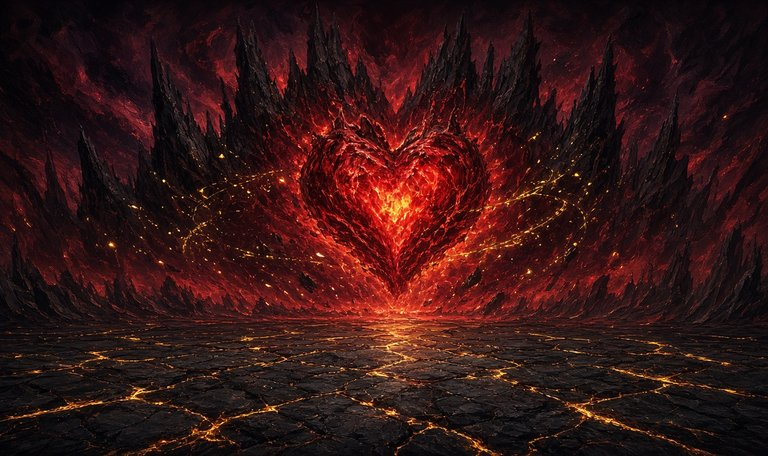
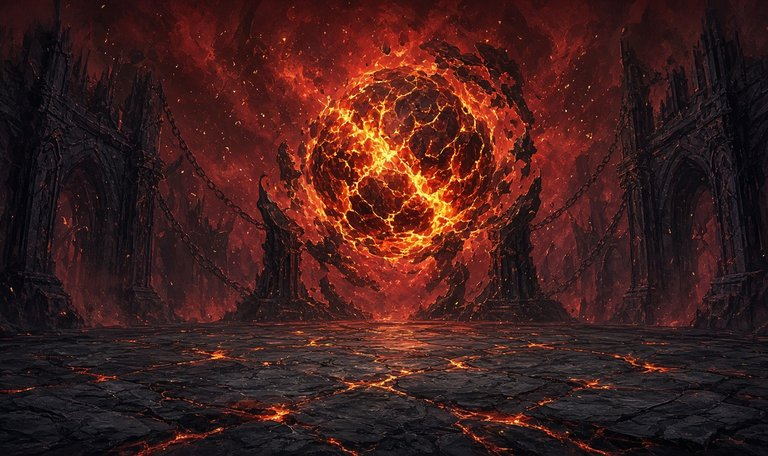
World polish: repaint 'heart' backdrop as an abstract molten ember-core chamber in the Hollow Citadel; soft painted ground transitions (grass/path, grass/water, sand/water, snow, moss, dusk, ash, reach) via noisy alpha edge overlays, collision unchanged; lighter dark-dungeon vignette with warm ember

diff --git a/world.js b/world.js
@@ -32,3 +32,23 @@ const _drawIsle=drawIsle;const ISLE_GEN=['plain','trees','rock','tree','light'];
 drawIsle=function(x,y,rx,ry,kind){const k=kind?(WART.isle[kind]?kind:null):ISLE_GEN[Math.abs((rx*31)|0)%5];const im=k&&WART.isle[k];
  if(!im)return _drawIsle(x,y,rx,ry,kind);const w=rx*2.5,h=w*im.height/im.width;X.save();X.imageSmoothingEnabled=true;X.drawImage(im,x-w/2,y-h*0.42,w,h);X.restore();
  if(kind==='ruin'&&typeof blob==='function')blob(x,y-ry*1.6,3+Math.sin(T*4),'#ffb040',0.7);};
+// ---------- soft ground transitions ----------
+// Where two different ground types meet, the higher-priority ground (grass over path, sand/grass over water, snow over
+// trodden snow, ...) bleeds ~5px into its neighbour through a painterly noisy alpha mask. Purely visual: tile chars,
+// SOLID and doors are untouched. Prop tiles on a grass base (trees, fences, flowers, huts) count as grass when bleeding.
+const EDGE_P={'.':6,'<':5,'s':6,'h':6,'d':6,'a':6,'M':6,',':4,'j':4,'w':4,'N':4,'S':4,'~':2,'K':2,'l':2,'k':2,'L':2};
+const EDGE_BASE={T:'.',f:'.',F:'.',V:'.',H:'.',m:'.',P:'s',I:'s',t:'h',i:'h',r:'a',g:'a',A:'d',G:'d',Q:'M'};
+const EDGE_MASK=[0,1,2,3].map(d=>{const c=document.createElement('canvas');c.width=c.height=48;const g=c.getContext('2d');let s=d*977+13;const R=()=>(s=(s*16807)%2147483647)/2147483647;
+ for(let i=0;i<48;i++){const depth=10+R()*8+Math.sin(i*0.35+d)*3;const gr=[g.createLinearGradient(0,0,0,depth),0];const gg=gr[0];gg.addColorStop(0,'rgba(0,0,0,1)');gg.addColorStop(0.45,'rgba(0,0,0,0.75)');gg.addColorStop(1,'rgba(0,0,0,0)');g.fillStyle=gg;g.fillRect(i,0,1,depth);}
+ const o=document.createElement('canvas');o.width=o.height=48;const q=o.getContext('2d');q.translate(24,24);q.rotate(d*Math.PI/2);q.drawImage(c,-24,-24);return o;}); // 0=N 1=E 2=S 3=W
+const EDGE_C=new Map();
+function edgeCell(a,v,f,d){const k=a+v+'|'+f+d;let c=EDGE_C.get(k);if(c)return c;const p=PTILE.get(a);c=document.createElement('canvas');c.width=c.height=48;const g=c.getContext('2d');
+ g.drawImage(WART.atlas,v*48,(p.row+f)*48,48,48,0,0,48,48);g.globalCompositeOperation='destination-in';g.drawImage(EDGE_MASK[d],0,0);EDGE_C.set(k,c);return c;}
+const _drawPT=drawPT;const EDIRS=[[0,-1],[1,0],[0,1],[-1,0]];
+drawPT=function(t,x,y,dx,dy){if(!_drawPT(t,x,y,dx,dy))return false;const pb=EDGE_P[t];if(pb===undefined||typeof MAPS==='undefined'||!MAPS[G.map])return true;const M=MAPS[G.map];
+ const v=(y%3)*3+(x%3);for(let d=0;d<4;d++){const nx=x+EDIRS[d][0],ny=y+EDIRS[d][1];if(nx<0||ny<0||nx>=M.w||ny>=M.h)continue;let a=M.rows[ny][nx];a=EDGE_BASE[a]||a;
+  const pa=EDGE_P[a];if(pa===undefined||pa<=pb||a===t||!PTILE.has(a))continue;const f=PTILE.get(a).frames>1?Math.floor(T*2)%PTILE.get(a).frames:0;X.drawImage(edgeCell(a,v,f,d),dx,dy,16,16);}return true;};
+// ---------- readable darkness ----------
+// Dark dungeons keep a vignette + cool tint, but lighter (phone screens) and with a warm ember glow around the party.
+function DARKFX(px,py){let g=X.createRadialGradient(px,py,40,px,py,190);g.addColorStop(0,'rgba(6,4,18,0)');g.addColorStop(0.6,'rgba(6,4,18,0.28)');g.addColorStop(1,'rgba(6,4,18,0.58)');X.fillStyle=g;X.fillRect(0,0,W,H);
+ X.save();X.globalCompositeOperation='lighter';g=X.createRadialGradient(px,py,0,px,py,56);const fl=0.08+0.02*Math.sin(T*7);g.addColorStop(0,`rgba(255,150,60,${fl})`);g.addColorStop(1,'rgba(255,150,60,0)');X.fillStyle=g;X.fillRect(px-60,py-60,120,120);X.restore();}

diff --git a/world_test.js b/world_test.js
@@ -35,6 +35,14 @@ for(const cv of ['field','cave','forge','glacier','sunken','twilight','throne','
 ok(await ev(()=>DBG.scene==='battle'&&BDRAW(DBG.B.cave)===true),'battle draws the painted backdrop');
 await pair('skymap',()=>{DBG.newGame();G.sky=newSky();G.sky.x=22*16;G.sky.y=24*16;DBG.UI.length=0;DBG.setScene('skymap');});
 ok(await ev(()=>SKYSEA(0,0,0)===true),'sky map draws the painted cloud sea');
+n=244;
+// follow-up: soft ground edges, readable dark dungeons, repainted heart backdrop
+ok(await ev(()=>{DBG.setStage('town');EDGE_C.clear();drawField();return EDGE_C.size>0&&typeof DARKFX==='function';}),'soft blended edges drawn between different ground types');
+ok(await ev(()=>{DBG.setStage('town');const r=MAPS.town.rows;let g=null;for(let y=0;y<r.length&&!g;y++)for(let x=0;x<r[y].length;x++)if(r[y][x]===','&&!npcAt(x,y)){g=[x,y];break;}return blocked(0,0)===true&&g&&!blocked(g[0],g[1]);}),'edges are visual only: collision unchanged');
+for(const[nm,m,x,y]of [['town','town',10,9],['world','world',6,4],['saltmere','ex_saltmere',10,8],['cave','cave',11,12],['citadel','citadel',12,8],['heartspire','heartspire',12,10],['obs','ex_obs',12,7]]){await ev(eval(map(m,x,y)));await w(350);await p.screenshot({path:`shots/${n++}_v2_${nm}.png`});}
+await ev(()=>{DBG.newGame();DBG.startBattle(['slime'],'heart',0);DBG.B.intro=0;DBG.B.swirl=0;});await w(400);await p.screenshot({path:`shots/${n++}_v2_battle_heart.png`});
+ok(await ev(()=>{DBG.setStage('town');DBG.UI.length=0;const t={s:"Kael's breath frosts — just his.",t:2};drawToastBar(t);const c1=t.c;G.x+=1;drawToastBar(t);return c1===t.c&&c1.width===W*SC;}),'walking toast is cached at device resolution and blitted in screen space (no shimmer)');
+await ev(()=>{DBG.setStage('town');DBG.UI.length=0;TOAST={s:"Kael's breath frosts — just his.",t:2.4};});await w(300);await p.screenshot({path:`shots/${n++}_v2_toast_phone.png`});
 // performance: 300 field frames with the painted atlas
 const ms=await ev(()=>{DBG.setStage('town');const t0=performance.now();for(let i=0;i<300;i++)drawField();return (performance.now()-t0)/300;});
 ok(ms<8,'painted field frame cost '+ms.toFixed(2)+'ms (<8ms)');

diff --git a/story.js b/story.js
@@ -91,8 +91,13 @@ const _fspr=fspr;fspr=function(c,x,y){_fspr(c,x,y);if(scene!=='map'||!G||!early(
  const ph=(T%nextFl);if(ph<0.6){const a=Math.sin(ph/0.6*Math.PI);X.globalAlpha=a*0.8;X.fillStyle=ph<0.3?'#ffb040':'#a0e0ff';X.beginPath();X.arc(x+6,y+4,3+a*2,0,7);X.fill();
   for(let i=0;i<4;i++){X.fillRect(x+4+Math.sin(T*9+i)*5,y+6-i*3-ph*10,1,1);}X.globalAlpha=1;
   if(!TOAST||TOAST.t<=0){TOAST={s:CHILLS[Math.floor(T/nextFl)%CHILLS.length],t:2.4};}}};
-const _dfS=drawField;drawField=function(){_dfS();if(TOAST&&TOAST.t>0&&!UI.length){TOAST.t-=1/60;X.globalAlpha=Math.min(1,TOAST.t);X.fillStyle='#000a';X.fillRect(0,H-26,W,12);txt(TOAST.s,W/2,H-24,'#bfe6ff',6,'center');X.globalAlpha=1;}
+const _dfS=drawField;drawField=function(){_dfS();if(TOAST&&TOAST.t>0&&!UI.length){TOAST.t-=1/60;X.globalAlpha=Math.min(1,TOAST.t);drawToastBar(TOAST);X.globalAlpha=1;}
  if(G&&G.flags.clear&&G.map==='town')drawEndingTown();};
+// walking-flavour toast: rendered once into a device-resolution canvas, then blitted in screen space at whole device
+// pixels with the transform reset, so it can't shimmer while the camera pans (no sub-pixel text / shadow offsets).
+function drawToastBar(t){if(!t.c||t.cs!==t.s){const c=document.createElement('canvas');c.width=W*SC;c.height=12*SC;const g=c.getContext('2d');g.fillStyle='#000a';g.fillRect(0,0,c.width,c.height);
+  g.font=`bold ${6*SC}px "Courier New",monospace`;g.textAlign='center';g.textBaseline='top';const x=Math.round(c.width/2);g.fillStyle='#000';g.fillText(t.s,x+2,2*SC+2);g.fillStyle='#bfe6ff';g.fillText(t.s,x,2*SC);t.c=c;t.cs=t.s;}
+ X.save();X.setTransform(1,0,0,1,0,0);X.imageSmoothingEnabled=false;X.drawImage(t.c,0,Math.round((H-26)*SC));X.restore();}
 // --- endings: concrete differences in the towns after the credits ---
 function drawEndingTown(){const cx=Math.max(0,Math.min(G.x*16+8-W/2,MAPS.town.w*16-W)),cy=Math.max(0,Math.min(G.y*16+8-H/2,MAPS.town.h*16-H));const keep=G.flags.ending==='keeper';
  if(keep){for(let i=0;i<10;i++){const x=10*16-cx+((i*7)%32),y=6*16-cy+28-((T*20+i*9)%30);X.globalAlpha=0.6;X.fillStyle=i%2?'#ffb040':'#ff6020';X.fillRect(x,y,2,3);}X.globalAlpha=1;}

diff --git a/game.js b/game.js
@@ -337,7 +337,7 @@ function drawField(){const M=MAPS[G.map],[cx,cy,ppx,ppy]=camera();X.fillStyle='#
  XFENTS.forEach(f=>f(ents,cx,cy));
  ents.sort((a,b)=>a.y-b.y).forEach(e=>e.dr());if(window.XFIELD)XFIELD(cx,cy);
  if(G.map==='town'){const fx=10*16-cx,fy=6*16-cy;for(let i=0;i<4;i++){const p=(T*1.5+i/4)%1;X.fillStyle='#bfe0ff';X.fillRect(fx+14+Math.sin(i*2)*6*p,fy+12-Math.sin(p*Math.PI)*10,2,2);}}
- if(M.dark){const g=X.createRadialGradient(ppx-cx+8,ppy-cy+8,24,ppx-cx+8,ppy-cy+8,140);g.addColorStop(0,'rgba(0,0,10,0)');g.addColorStop(1,'rgba(0,0,10,0.85)');X.fillStyle=g;X.fillRect(0,0,W,H);}
+ if(M.dark){if(window.DARKFX)DARKFX(ppx-cx+8,ppy-cy+8);else{const g=X.createRadialGradient(ppx-cx+8,ppy-cy+8,24,ppx-cx+8,ppy-cy+8,140);g.addColorStop(0,'rgba(0,0,10,0)');g.addColorStop(1,'rgba(0,0,10,0.85)');X.fillStyle=g;X.fillRect(0,0,W,H);}}
  if(F.banner>0){F.banner-=1/60;X.globalAlpha=Math.min(1,F.banner);win(W/2-70,8,140,20);txt(M.name,W/2,14,'#fff',8,'center');X.globalAlpha=1;}
  if(isTouch&&!UI.length){txt('MENU: party',W-4,H-10,'#fff8',6,'right');}}
 
